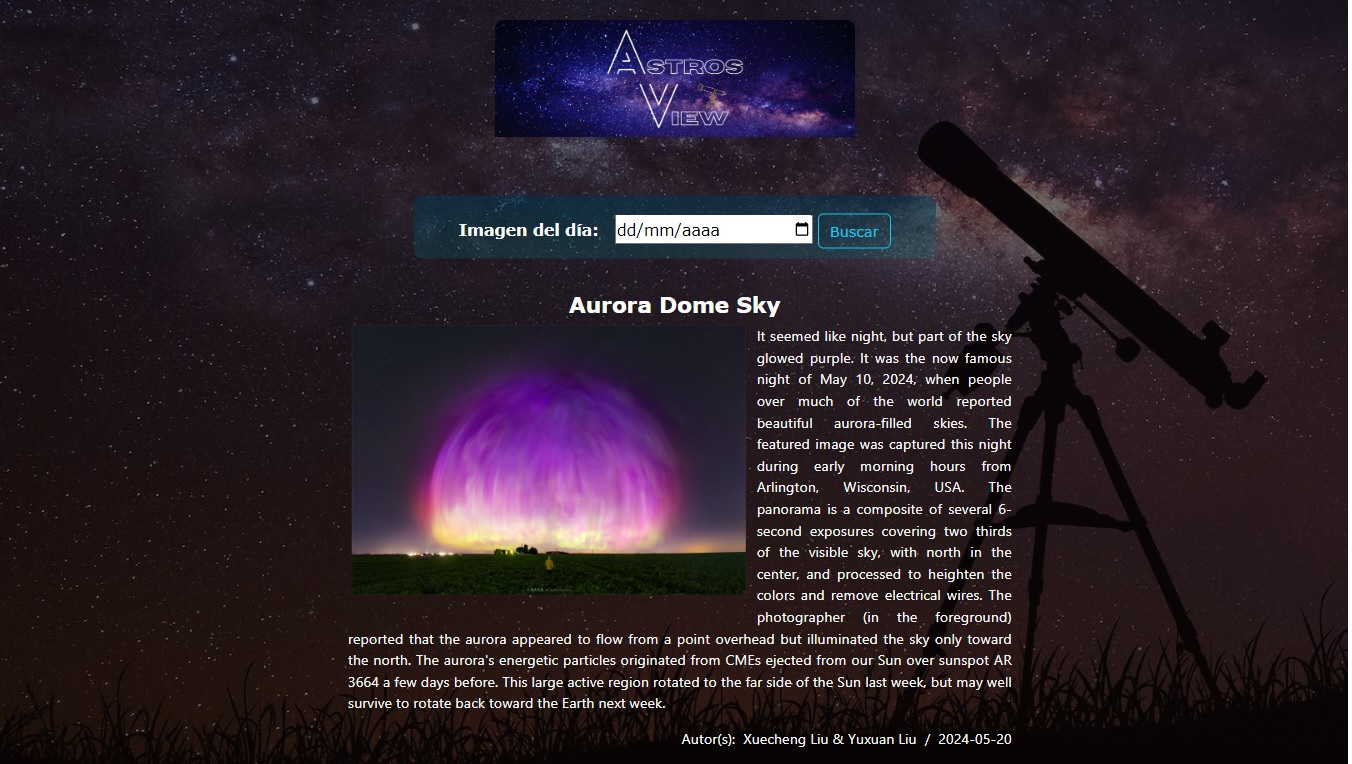
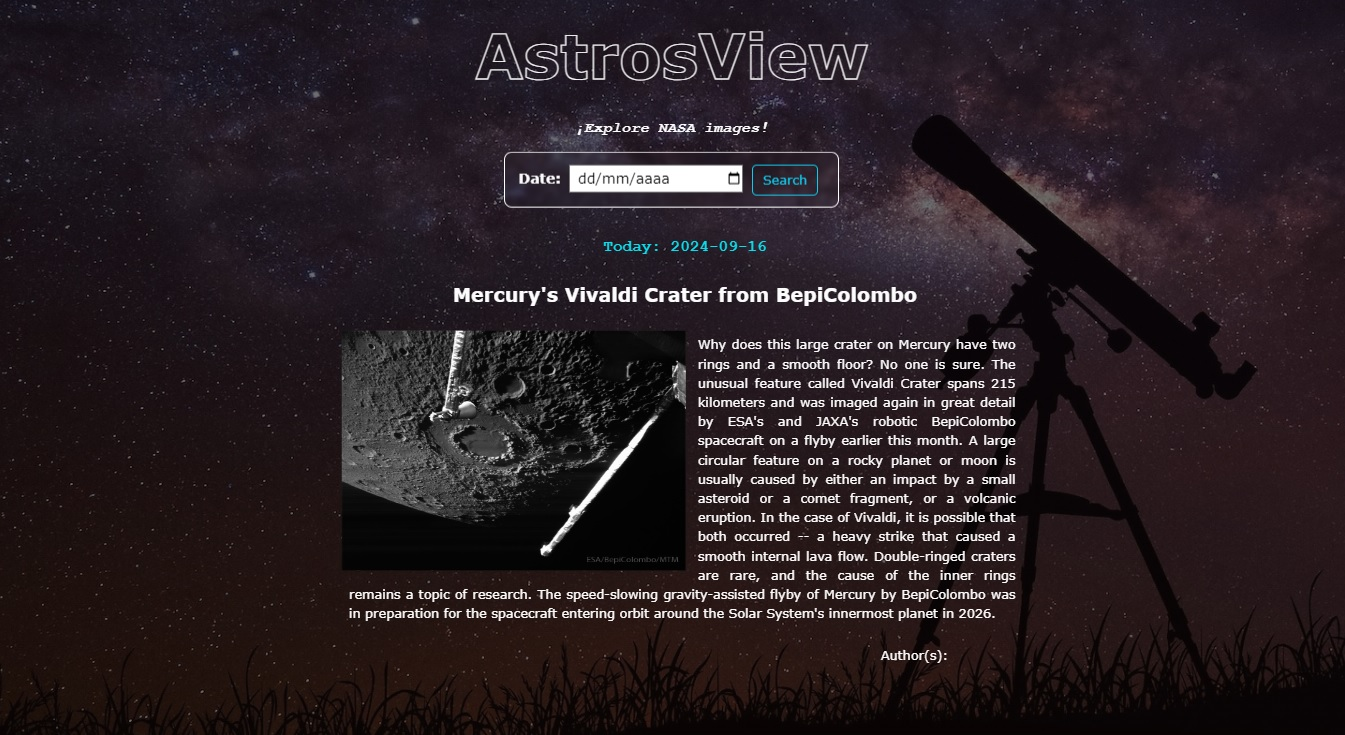
Update and improvements in templates and search engine

diff --git a/browser/static/css/app.css b/browser/static/css/app.css
@@ -14,19 +14,43 @@ body{
     -webkit-text-stroke-width: 1px;
     -webkit-text-stroke-color: rgb(252, 252, 252);
     text-align: center;
-    padding-top: 4px;
-    padding-bottom: 6px;
+    padding-top: 5px;
+    padding-bottom: 3px;
 }
 
 a{
     text-decoration: none;
 }
 
+a:link{
+    color:  rgb(252, 252, 252);
+}
+
+a:visited{
+    color: rgb(252, 252, 252);
+}
+
+a:hover{
+    color:rgb(7, 223, 238);
+}
+
+#slogan{
+    font-family:'Courier New', Courier, monospace;
+    font-weight: bold;
+    font-style: italic;
+    font-size: 1.2em;
+    text-align: center;
+    color: rgb(252, 252, 252);
+    padding-top: 3px;
+    padding-bottom: 7px;
+
+}
+
 #browser{
     border: 1px solid #fff;
     border-radius: 10px;
     backdrop-filter: blur(3px);
-    width: 450px;
+    width: 419px;
     height: 70px;
 
     font-family: Verdana, Geneva, Tahoma, sans-serif;
@@ -43,7 +67,8 @@ a{
 
 
 .label{
-    margin-right: 5px;
+    margin-right: 4px;
+    margin-left: 5px;
 }
 
 .date{
@@ -73,10 +98,11 @@ a{
 
 }
 
-.clearfix h6{
+.clearfix h5{
+    font-family:'Courier New', Courier, monospace;
     text-align: center;
     font-weight: bold;
-    color:rgb(252, 252, 252);
+    color:rgb(7, 223, 238);
     padding-top: 14px;
     padding-bottom: 2px;
     position: relative;
@@ -121,13 +147,13 @@ footer{
     text-align: center;
     padding-bottom: 12px;
     position: relative;
-    top: 11%;
     left: 0%;
-    transform: translate(1%, 12%);
+    top: 10%;
+    transform: translate(1%, 11%);
 }
 
 #logonasa{
-    width: 70px;
+    width: 93px;
     height: 70px;
 }
 

diff --git a/browser/templates/browser/base.html b/browser/templates/browser/base.html
@@ -20,19 +20,26 @@
 
 <!--Body-->
 
+<!--Logo-->
+
 <body>
     <div class="container-fluid my-3" id="logo">
         <h1 class="label" id="logo"><a href="{% url 'today' %}">AstrosView</a></h1>    
     </div>
 
+    <div class="container-fluid my-1">
+        <h6 class="label" id="slogan">¡Explore NASA images!</h6>    
+    </div>
+
+    <!--browser-->
     <nav>
         <div class="search-bar">
             <form action="browser_set" method="get" autocomplete="off">
                 {% csrf_token %}
                 <div class="container-fluid my-3" id="browser">
-                    <label class="label">Consultar:</label>
+                    <label class="label">Date:</label>
                     <input class="date" type="date" name="date" autofocus required>
-                    <button type="submit" class="btn btn-outline-info">Buscar</button>   
+                    <button type="submit" class="btn btn-outline-info">Search</button>   
                 </div>
             </form>
         </div>
@@ -51,10 +58,10 @@
 <!-- Footer -->
    <footer>
         <div class="container my-3">
-            <p style="text-decoration: underline;">Fuente consultada</p>
+            <p>Credit courtesy</p>
         </div>
         <div class="container my-3">
-            <img src="{% static 'img/nasalogo.png' %}" id="logonasa" alt="Nasa">
+            <a href="https://www.nasa.gov/"><img src="{% static 'img/nasalogo.png' %}" id="logonasa" alt="Nasa"></a>
         </div>
 
         <div class="container my-2">

diff --git a/browser/templates/browser/index.html b/browser/templates/browser/index.html
@@ -7,18 +7,31 @@
 
 <title>Index</title>
 
+<!--Resultado de la busqueda-->
 {% block content %}
   <section>
     <div class="clearfix my-1" id="cards">
-      <h4 class="col-md-12">{{query.title}}</h4>
-      <h6>{{query.date}}</h6>
-      <img src="{{query.url}}"  class="col-md-10 float-md-start mb-1 ms-md-3" alt="{{query.title}}">
-      <p class="col-md-6">
-        {{query.explanation}}
-      </p>
-      <p class="col-md-5" id="copyright">
-        Autor(s):&nbsp;{{query.copyright}}
-      </p>
+
+      <!--Si existe resultado en la busqueda-->
+      {% if query %}
+        <h5>Today:&nbsp;{{query.date}}</h5>
+        <h4 class="col-md-12">{{query.title}}</h4>
+        <img src="{{query.url}}"  class="col-md-10 float-md-start mb-1 ms-md-3" alt="{{query.title}}">
+
+        <p class="col-md-6">
+          {{query.explanation}}
+        </p>
+
+        <p class="col-md-5" id="copyright">
+          Author(s):&nbsp;{{query.copyright}}
+        </p>
+
+      <!--Si el resultado de la busqueda es fallido-->
+      {% else %}
+        <h4 class="col-md-12">No result in the search</h4>
+      
+      <!--Finaliza el ciclo de resultado-->
+      {% endif %}
     </div>
   </section>
 {% endblock %}

diff --git a/browser/views.py b/browser/views.py
@@ -9,10 +9,14 @@ from datetime import date
 
 def today(request):
 
+    #fecha actual tomada del servidor
     now=date.today()
+
+     #API APOD que permite consultar la imagen del día publicada por la NASA
     URL_API="https://api.nasa.gov/planetary/apod?"
     
     try:
+        #parámetros de busqueda
         params= {
             "api_key":"c2OYvrWfzSWPDRAburcCkTmIc0iKnAZk88xLwaVq",
             "date": now,
@@ -25,22 +29,25 @@ def today(request):
             query=response.json()
 
         else:
-            # En caso de un código de respuesta no exitoso
-            query=['No se han publicado imagenes el día de hoy']
-    
-    except requests.RequestException as e:
-        # Manejar errores de solicitud
-        query= ['Error en solicitud :{e}']
+             #si no se encuentra resultados
+            query=[]
 
+    #excepción de error al cargar el sitio web
+    except requests.RequestException as e:
+        query= []
+
+    #retorno de respuesta a el sitio web
     return render(request,'browser/index.html', {'query': query})
 
 
 #---Buscador de imagen---
 def browser_set(request):
 
+    #API APOD que permite consultar la imagen del día publicada por la NASA
     URL_API="https://api.nasa.gov/planetary/apod?"
 
     try:
+        #parámetros de busqueda
         params= {
             "api_key":"c2OYvrWfzSWPDRAburcCkTmIc0iKnAZk88xLwaVq",
             "date":request.GET["date"],
@@ -52,12 +59,16 @@ def browser_set(request):
         if response.status_code==200:
             # se utiliza el método json() para extraer los datos en formato JSON de la respuesta 
             query=response.json()
-        else:
-            query=['No se encontraron resultados asociados a la consulta']
-    
-    except requests.RequestException as e:
-        query= ['Error en solicitud :{e}']
 
+        else:
+            #si no se encuentra resultados
+            query=[]
+
+    #excepción de error al cargar el sitio web
+    except requests.RequestException as e:
+        query= ['{e}']
+
+    #retorno de respuesta a el sitio web
     return render(request,'browser/index.html', {'query': query})
 
 
